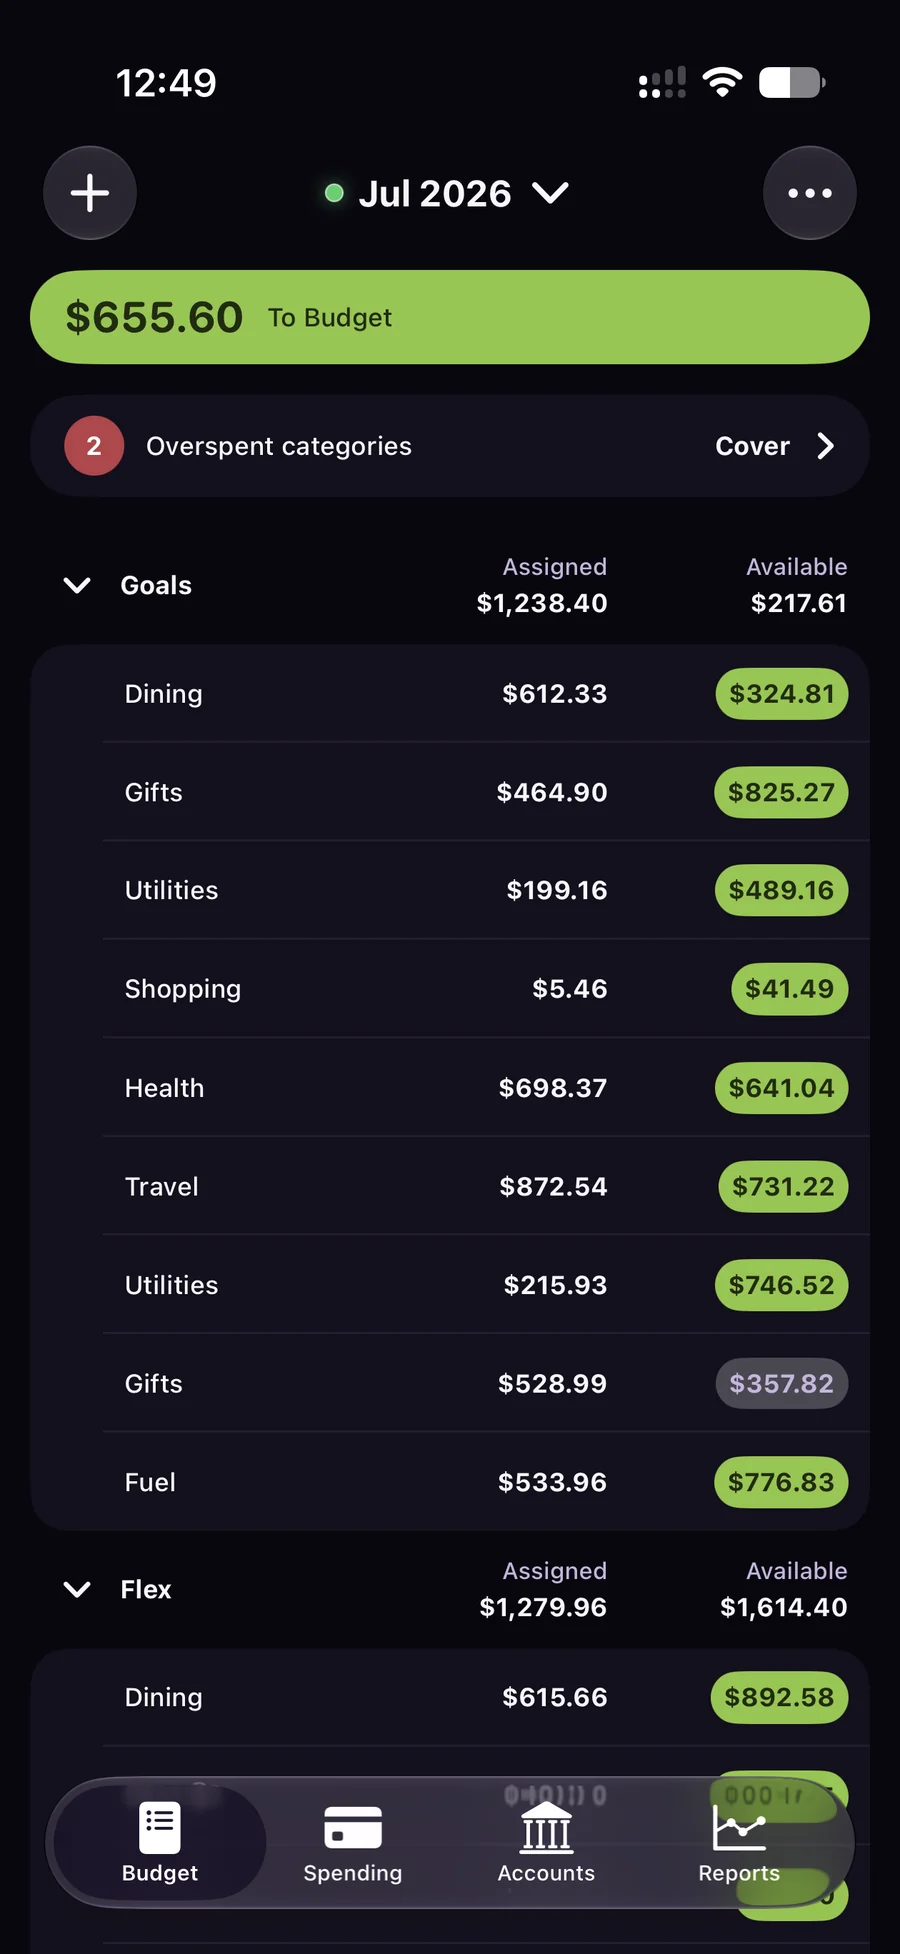
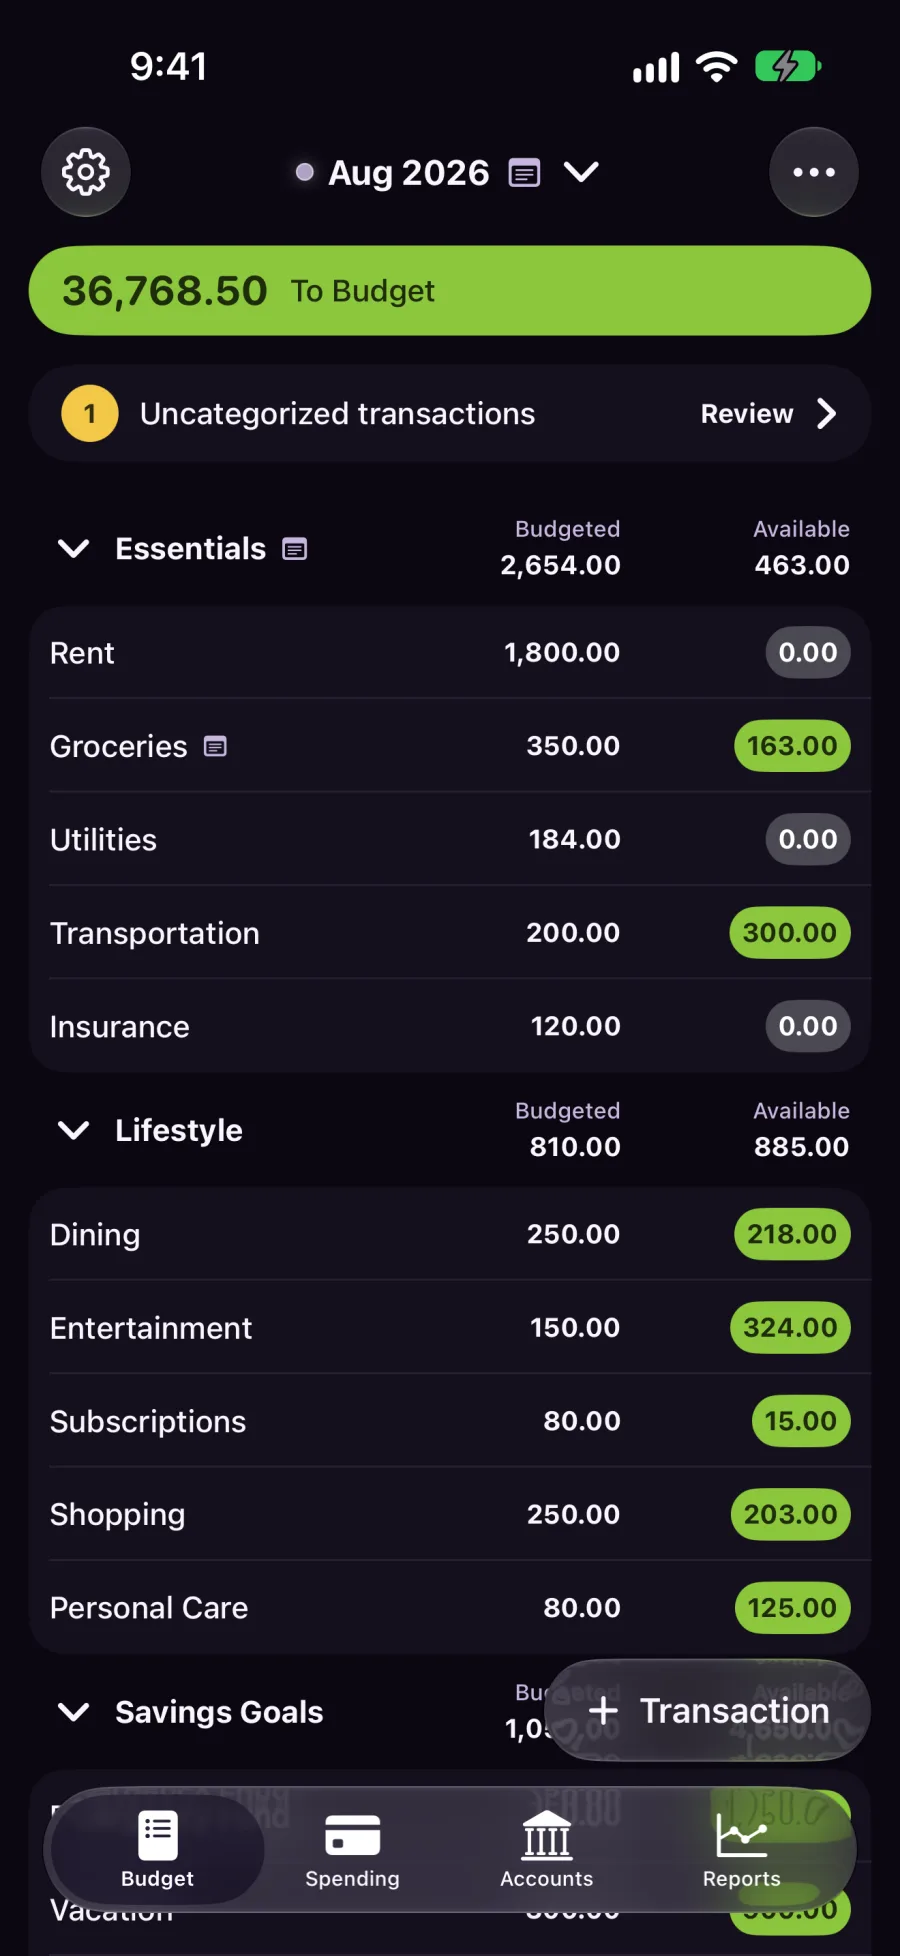
copy: refresh features for 0.8.1 (22), add Exports to privacy, new Budget and Spending shots

diff --git a/public/index.html b/public/index.html
@@ -55,10 +55,10 @@
         </div>
         <div class="hero-shots" aria-label="Screenshots">
           <span class="device">
-            <img src="/assets/budget.webp" width="900" height="1954" alt="Monthly budget with To Budget, overspent categories, and envelope available amounts.">
+            <img src="/assets/budget.webp" width="900" height="1956" alt="Monthly budget with To Budget, an uncategorized transactions alert, and envelope available amounts.">
           </span>
           <span class="device">
-            <img src="/assets/spending.webp" width="900" height="1954" alt="Spending feed of transactions grouped by day, with category and account chips.">
+            <img src="/assets/spending.webp" width="900" height="1956" alt="Spending feed of transactions grouped by day, with category and account chips.">
           </span>
         </div>
       </section>
@@ -128,11 +128,12 @@
         <table class="matrix">
           <tbody>
             <tr><th scope="row">Envelope &amp; tracking budgets</th><td><span class="state yes">Yes</span></td><td>Move money, hold, templates, rollover</td></tr>
-            <tr><th scope="row">Transactions</th><td><span class="state yes">Yes</span></td><td>Create, edit, split, transfer, undo</td></tr>
-            <tr><th scope="row">Reports</th><td><span class="state yes">Yes</span></td><td>Net worth, cash flow, spending</td></tr>
+            <tr><th scope="row">Transactions</th><td><span class="state yes">Yes</span></td><td>Create, edit, split, transfer, bulk edit, CSV import and export</td></tr>
+            <tr><th scope="row">Schedules</th><td><span class="state yes">Yes</span></td><td>Create, edit, skip, and post</td></tr>
+            <tr><th scope="row">Accounts</th><td><span class="state yes">Yes</span></td><td>Add, rename, close, reopen, reconcile</td></tr>
+            <tr><th scope="row">Reports</th><td><span class="state yes">Yes</span></td><td>Net worth, cash flow, spending, with drill-down</td></tr>
             <tr><th scope="row">Widgets, Siri &amp; Shortcuts</th><td><span class="state yes">Yes</span></td><td></td></tr>
             <tr><th scope="row">Encrypted budgets &amp; OpenID</th><td><span class="state yes">Yes</span></td><td>Plus custom headers and fallback servers</td></tr>
-            <tr><th scope="row">Accounts</th><td><span class="state part">Partial</span></td><td>Add and reconcile; no rename, close, or delete yet</td></tr>
             <tr><th scope="row">Bank Sync</th><td><span class="state part">Partial</span></td><td>SimpleFIN only, plus Apple Wallet import</td></tr>
             <tr><th scope="row">Rules &amp; templates</th><td><span class="state part">Partial</span></td><td>Split rules and note-based templates are read-only</td></tr>
           </tbody>

diff --git a/public/privacy.html b/public/privacy.html
@@ -36,12 +36,14 @@
       <h2>Your Data Stays With You</h2>
       <p>Actualist keeps a local copy of your budget on your device and syncs directly with the Actual Budget server you choose. Your saved sign-in details and budget encryption keys stay in the system Keychain.</p>
       <p>Optional connections run only when you choose them and contact only your server, a service you configure, or an Apple-provided system picker. The developer does not receive that data. App extensions use limited on-device data without your sign-in details, and notifications are generated locally.</p>
+      <h2>Exports</h2>
+      <p>Files you export leave the app only through the iOS share sheet, to the place you pick. An exported budget ZIP is not encrypted, so share it only with people and places you trust.</p>
       <h2>Services You Choose</h2>
       <p>Your server and any identity, financial-data, hosting, or other service you choose have their own privacy practices. Actualist does not operate them.</p>
       <p>Apple may collect beta usage, crash, and diagnostic information when you use TestFlight. Information you submit in a GitHub report is handled by GitHub. Review attachments and never include passwords or financial details.</p>
       <h2>Backups and Deletion</h2>
       <p>Local budget data, changes waiting to upload, recovery copies, and shared extension data are excluded from device backups. Synced changes can be restored from your Actual server. Changes still waiting to upload cannot.</p>
-      <p>Use <strong>Disconnect &amp; Erase Local Data</strong> in Actualist to remove local budgets, saved sign-in details, and shared extension data. Use it before uninstalling so nothing is left in the Keychain. Erasing data on this device does not delete anything from your server or revoke access at other services.</p>
+      <p>Use <strong>Disconnect and Erase Data</strong> in Actualist to remove local budgets, saved sign-in details, and shared extension data. Use it before uninstalling so nothing is left in the Keychain. Erasing data on this device does not delete anything from your server or revoke access at other services.</p>
       <h2>Contact</h2>
       <p>For a privacy question, open a GitHub issue that contains no sensitive information. For a security issue or a report containing sensitive details, follow <a href="https://github.com/sporez/actualist/blob/main/SECURITY.md">SECURITY.md</a>.</p>
     </main>
